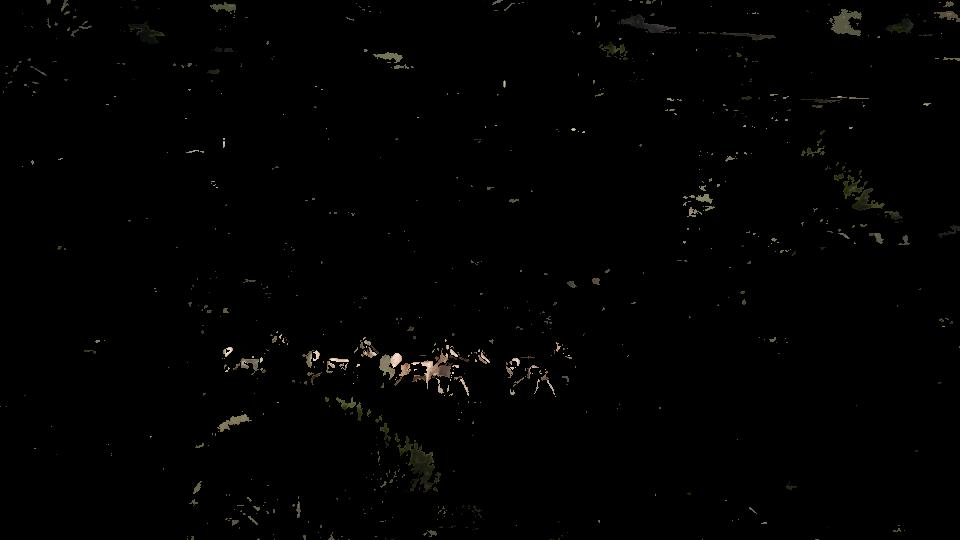
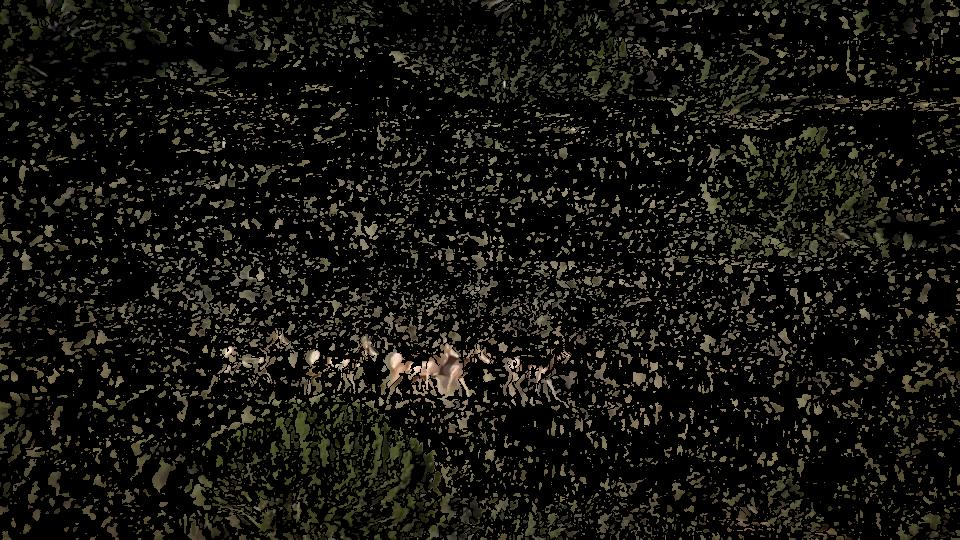
graphics updated

Changed region(s): [[0.0, 0.0, 1.0, 1.0], [0.5938, 0.2963, 0.6562, 0.3259]]

diff --git a/main.py b/main.py
@@ -24,18 +24,18 @@ if __name__ == '__main__':
     # gran1, granulated_image1 = granulation.spatio_color_granules(frames[0], 50)
     # print("Spatio color granules: done")
     gran2, granulated_image2 = granulation.spatio_temporal_granules(frames[0], frames[0:], 30)
-    print("Spatio temporal granules: done")
-    # gran3, granulated_image3 = granulation.color_neighborhood_granules(gran2, frames[0], 50)
+    # print("Spatio temporal granules: done")
+    gran3, granulated_image3 = granulation.color_neighborhood_granules(gran2, frames[0], 50)
     # print("Color neighborhood granules: done")
     #
     time2 = time.time()
-    print(gran2)
+    # print(gran2)
     #
     print("Elapsed time:", time2-time1)
     #
     # plt.imsave('spatio_color_granules.jpg', granulated_image1)
     plt.imsave('spatio_temporal_granules.jpg', granulated_image2)
-    # plt.imsave('color_neighborhood_granules.jpg', granulated_image3)
+    plt.imsave('color_neighborhood_granules.jpg', granulated_image3)
 
     # current_frame = frames[0]
     # previous_frames = frames[0:]
